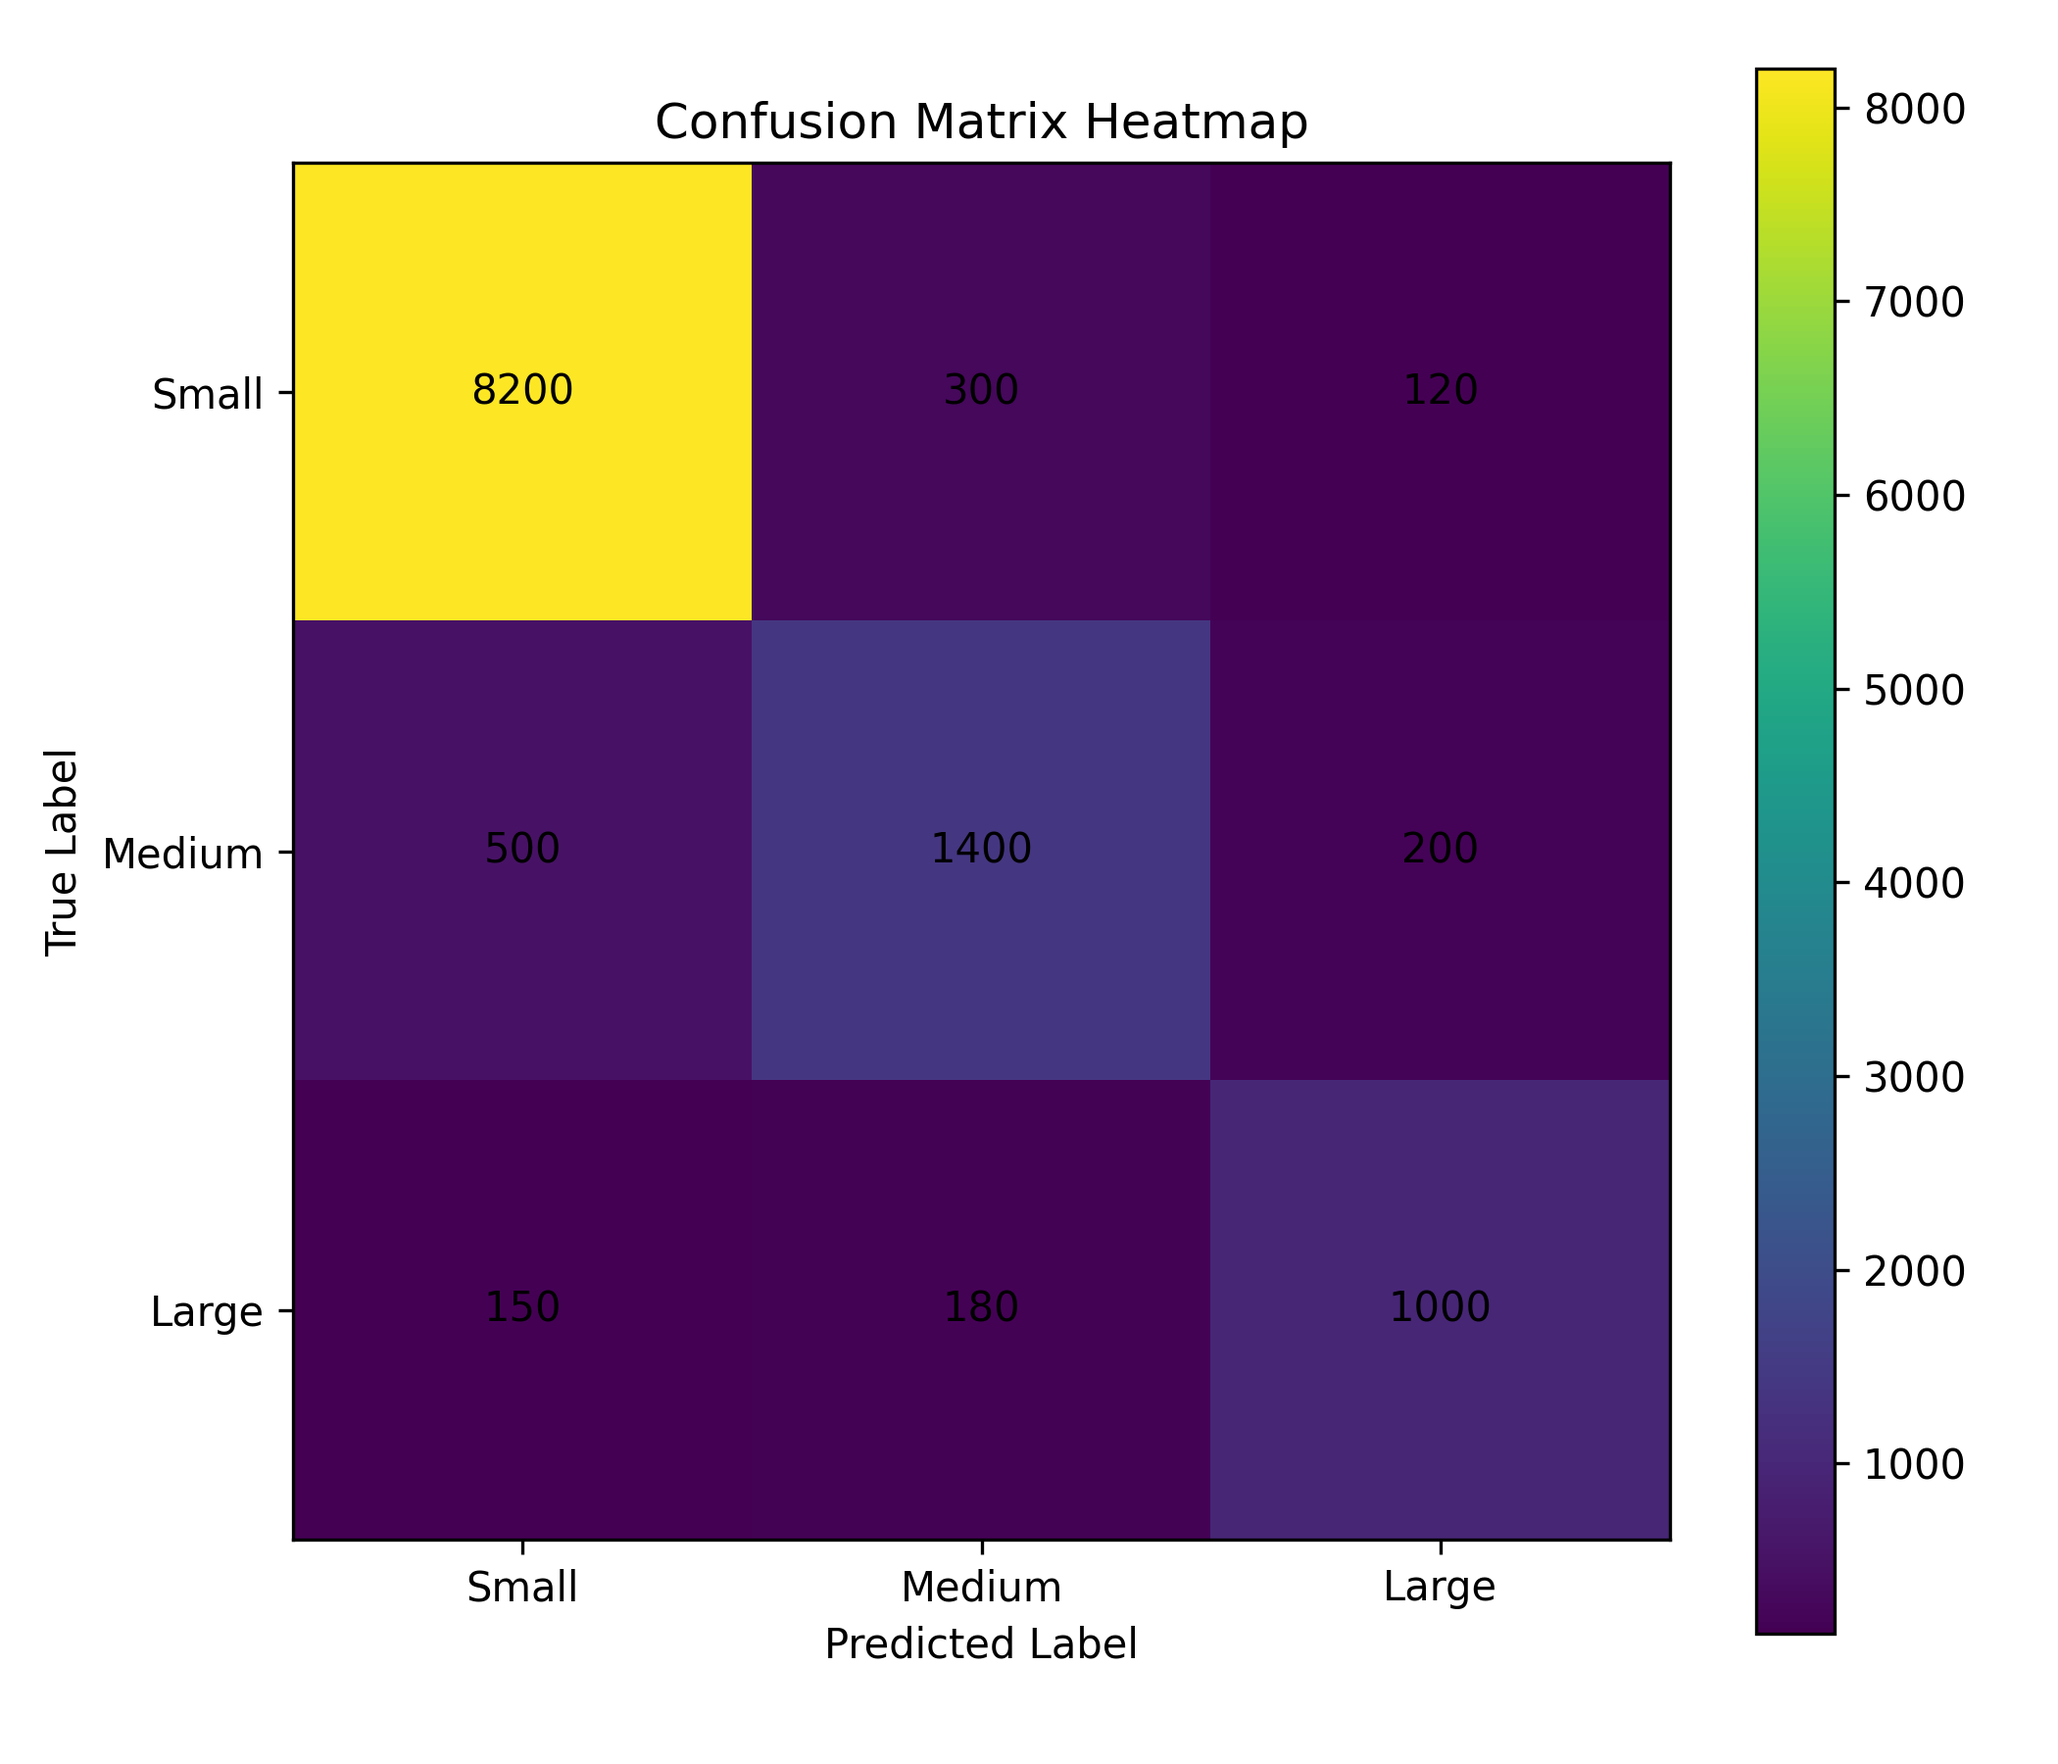
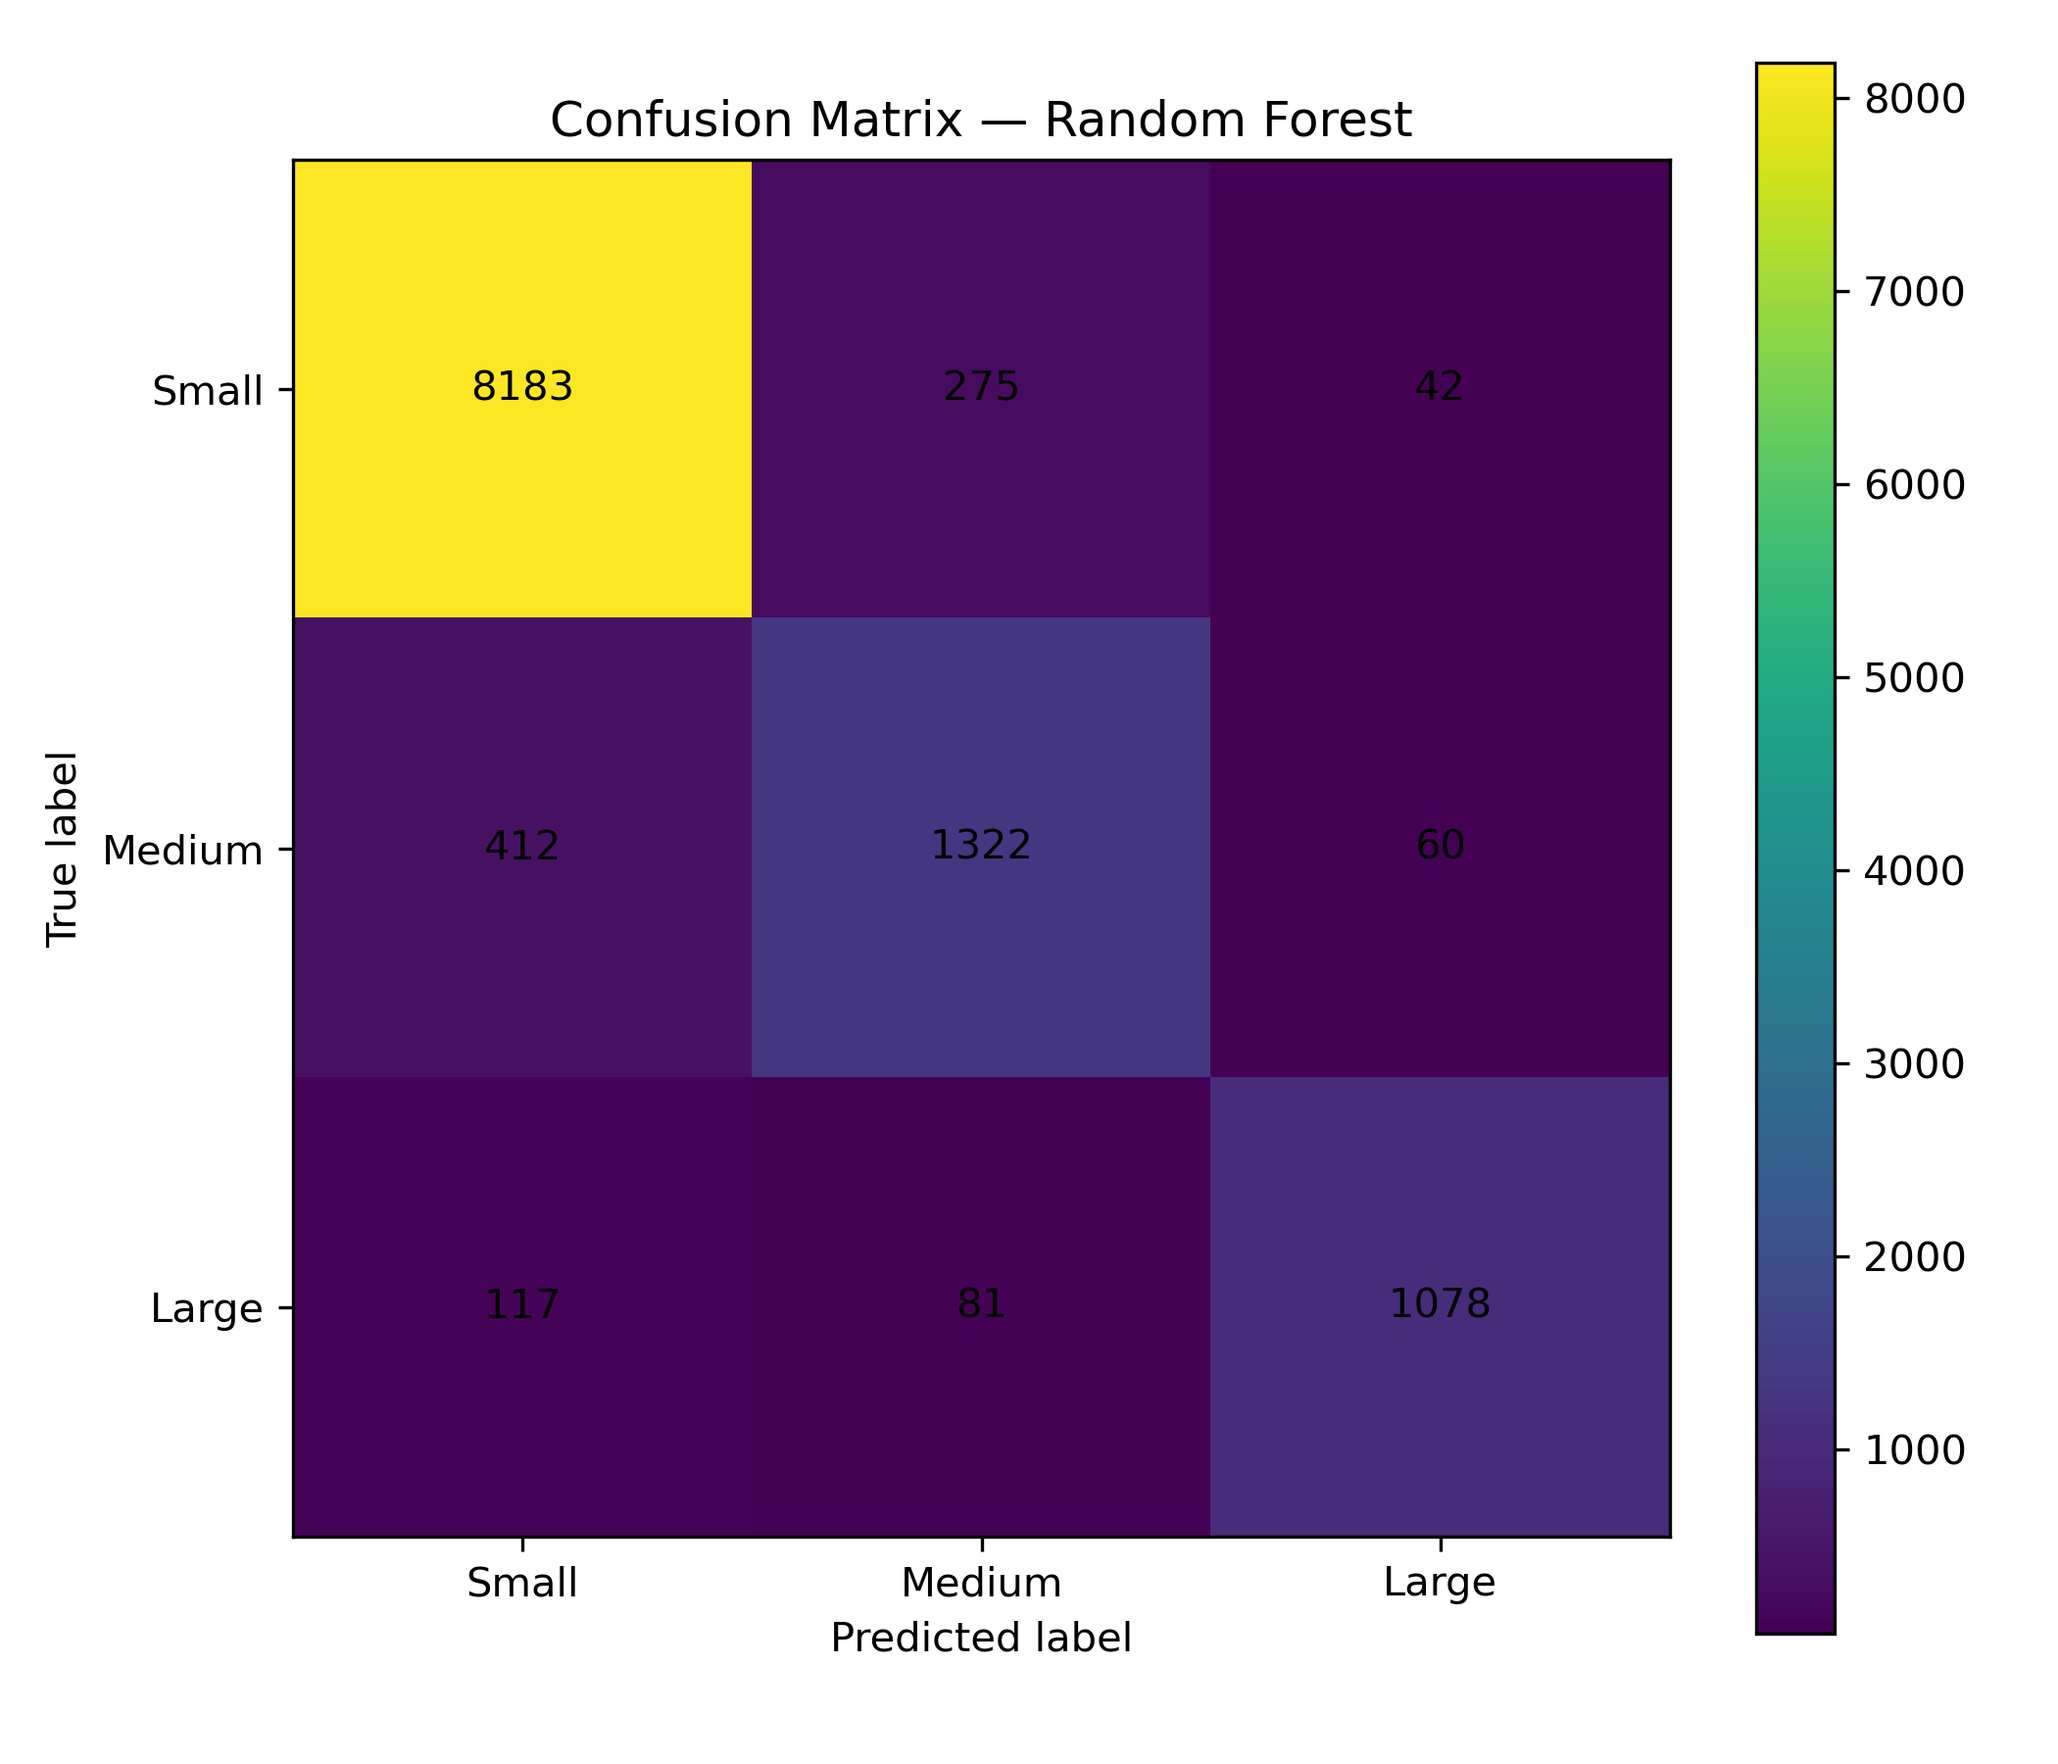
Update ROC_AUC & New_Classification_Visualizations

diff --git a/Project_Report/new_classification_visualizations.py b/Project_Report/new_classification_visualizations.py
@@ -1,0 +1,72 @@
+import matplotlib.pyplot as plt
+import numpy as np
+
+# Step 1: Model Accuracy Comparison
+
+# Accuracy results from classification models
+models = ["Naive Bayes", "Decision Tree", "SVM", "Random Forest"]
+accuracies = [49.08, 86.85, 88.60, 91.47]
+
+# Print model accuracies
+print("Model Accuracy Results:")
+for model, accuracy in zip(models, accuracies):
+    print(f"- {model}: {accuracy}%")
+
+# Create bar chart
+plt.figure(figsize=(8, 5))
+plt.bar(models, accuracies)
+
+# Labels and title
+plt.ylabel("Accuracy (%)")
+plt.xlabel("Classification Models")
+plt.title("Model Accuracy Comparison")
+
+# Save figure
+plt.tight_layout()
+plt.savefig("model_accuracy_comparison.png", dpi=300)
+plt.show()
+
+# Step 2: Confusion Matrix Heatmap
+
+# Random Forest confusion matrix from test set
+cm = np.array([
+    [8183, 275, 42],
+    [412,  1322, 60],
+    [117,  81,  1078]
+])
+
+classes = ["Small", "Medium", "Large"]
+
+# Print confusion matrix
+print("\nConfusion Matrix:")
+print(cm)
+
+# Create heatmap
+plt.figure(figsize=(7, 6))
+plt.imshow(cm, interpolation="nearest")
+plt.colorbar()
+
+# Axis labels
+plt.xticks(range(len(classes)), classes)
+plt.yticks(range(len(classes)), classes)
+
+# Add values inside matrix
+for i in range(len(classes)):
+    for j in range(len(classes)):
+        plt.text(j, i, cm[i, j], ha="center", va="center")
+
+# Labels and title
+plt.xlabel("Predicted label")
+plt.ylabel("True label")
+plt.title("Confusion Matrix — Random Forest")
+
+# Save figure
+plt.tight_layout()
+plt.savefig("confusion_matrix_heatmap.png", dpi=300)
+plt.show()
+
+# Final Output
+
+print("\nVisualization files created successfully.")
+print("- model_accuracy_comparison.png")
+print("- confusion_matrix_heatmap.png")
